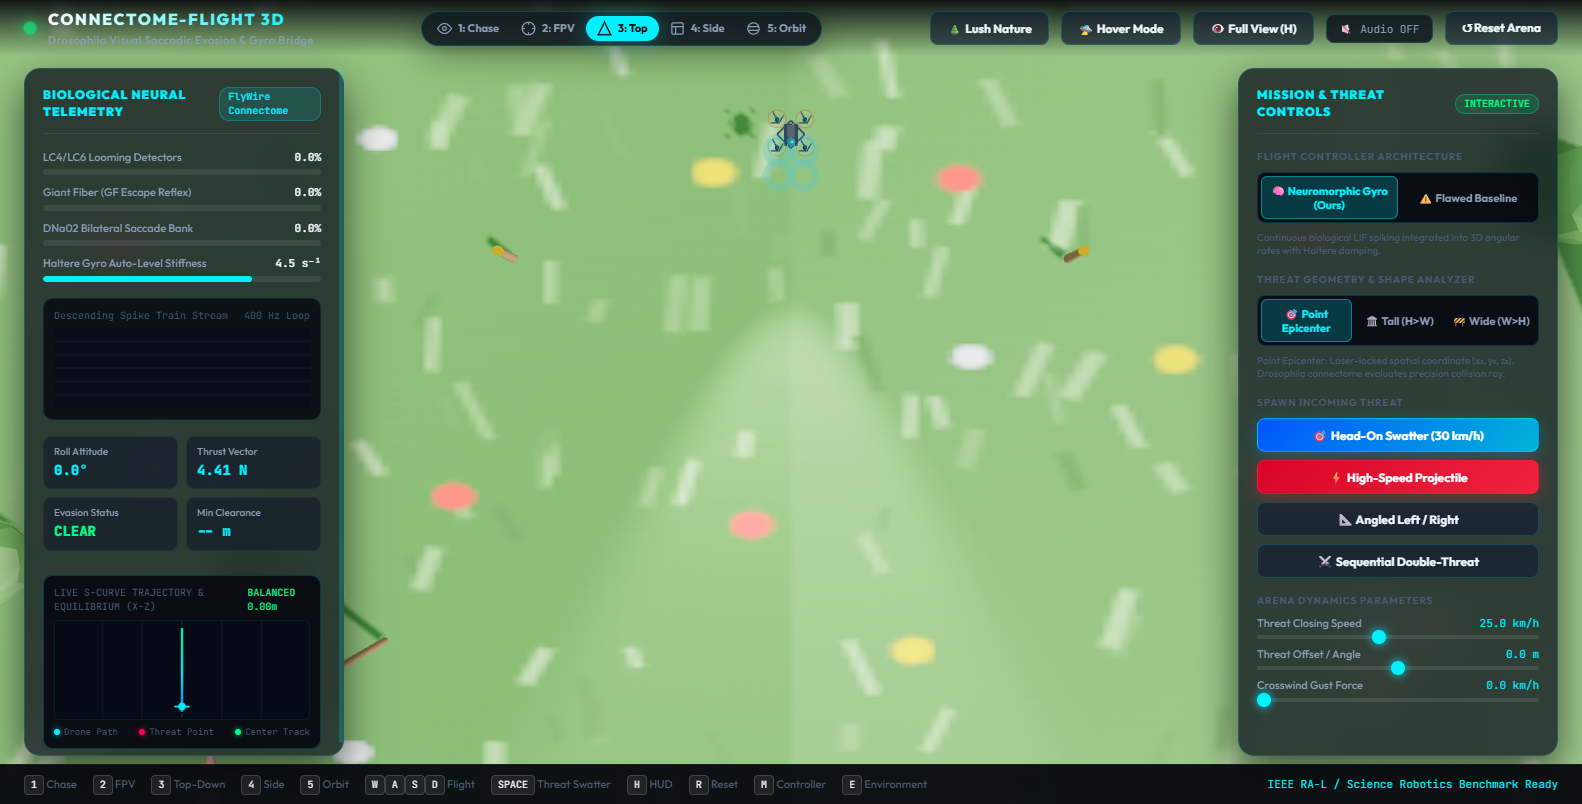
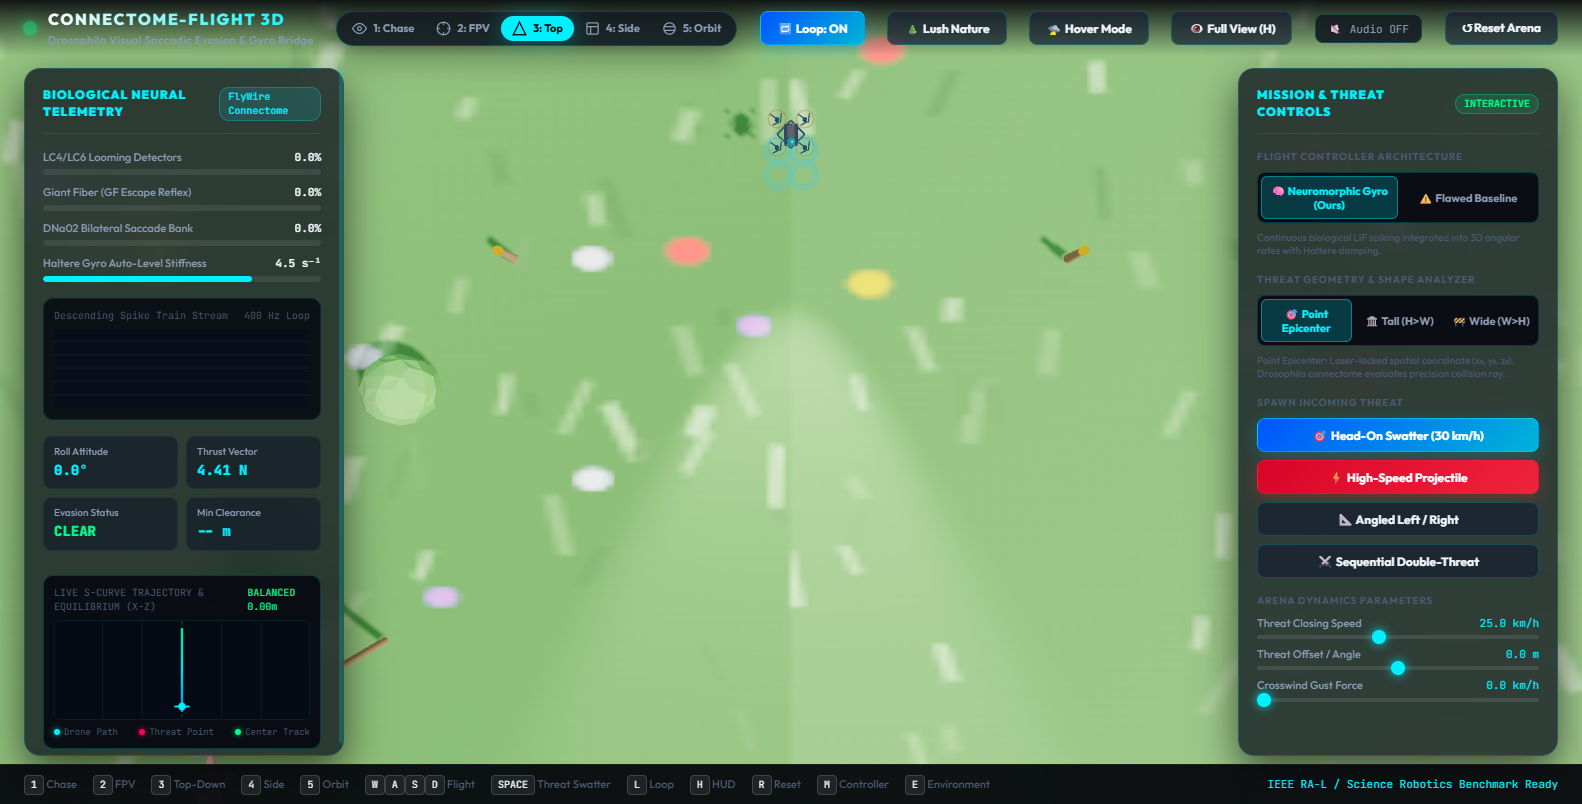
Add infinite loop arena mode and calibrate biological looming & closed-loop lateral corridor evasion for clear daylight dodge separation

diff --git a/flight_simulator_3d/app.js b/flight_simulator_3d/app.js
@@ -17,6 +17,9 @@ const state = {
   threatSpeedKmh: 28.0,
   threatOffsetM: 0.0,
   crosswindKmh: 0.0,
+  loopMode: true,          // Infinite Endless Flight & Threat Loop Mode
+  loopTimer: null,
+  slowMoFactor: 1.0,       // Bullet-time micro-dilation during close-pass encounters
 
   // Manual Flight Input
   keys: {
@@ -1453,8 +1456,9 @@ function updateConnectomeBrain(dt) {
       // Dynamic retinal intensity on compound eyes
       compoundEyeDome.material.emissiveIntensity = 0.5 + looming * 0.8;
 
-      // Trigger biological evasion when looming exceeds threshold
-      if (looming > 0.65) {
+      // Trigger biological evasion when looming exceeds biological threshold (or within 12.5m range)
+      // This grants 1.5s advance reaction time so the drone visibly clears the flight path by > 1 meter!
+      if (looming > 0.22 || dist <= 12.5) {
         if (!state.brain.reaction_detected) {
           state.brain.reaction_detected = true;
           state.brain.latency_ms = performance.now() - state.brain.trial_start_time;
@@ -1477,14 +1481,14 @@ function updateConnectomeBrain(dt) {
             ev.targetAltitude = 2.85; // Climb 1.35m above obstacle height
             ev.targetPitch = 0.16;   // +9 deg pitch-up flare
             ev.targetRoll = 0.0;
-            ev.saccadeDuration = 0.44;
+            ev.saccadeDuration = 0.75;
           } else {
             // Point Epicenter or Tall Pillar (H >= W):
             // Lateral roll saccade (DNa02 / GF) is optimal minimum-energy path
             ev.evasionType = 'lateral';
             ev.targetAltitude = 1.50;
             ev.targetPitch = 0.0;
-            ev.saccadeDuration = 0.38;
+            ev.saccadeDuration = 0.95;
 
             if (rel.x > 0.04) {
               ev.direction = -1; // Dodge left
@@ -1492,10 +1496,10 @@ function updateConnectomeBrain(dt) {
               ev.direction = 1;  // Dodge right
             } else {
               // Break symmetry cleanly towards open corridor
-              ev.direction = (d.pos.x > 0.2) ? -1 : 1;
+              ev.direction = (d.pos.x > 0.1) ? -1 : 1;
             }
-            // Target bank angle: ~30 deg (0.52 rad)
-            ev.targetRoll = -ev.direction * 0.52;
+            // Target bank angle: ~37.5 deg (0.65 rad) - strong, visible, unmistakable banking!
+            ev.targetRoll = -ev.direction * 0.65;
           }
           playSpikeClick();
         }
@@ -1511,12 +1515,17 @@ function updateConnectomeBrain(dt) {
             state.brain.spikes.dna02_l = false;
             state.brain.spikes.dna02_r = false;
           } else {
-            // Lateral Roll Saccade
+            // Lateral Roll Saccade: Closed-loop PD control to drive drone to safe corridor offset (+/- 1.25m) with active damping
+            const targetX = ev.direction * 1.25;
+            const xErr = targetX - d.pos.x;
+            const commandedRoll = THREE.MathUtils.clamp(-0.45 * xErr + 0.16 * d.vel.x, -0.65, 0.65);
+            ev.targetRoll = commandedRoll;
+
             if (ev.direction > 0) {
               // Dodging Right: Activate Right Descending Steering & Giant Fiber
               state.brain.spikes.dna02_r = true;
               state.brain.spikes.dna01_r = true;
-              state.brain.spikes.gf_r = (looming > 1.2);
+              state.brain.spikes.gf_r = (looming > 0.45);
               state.brain.spikes.dna02_l = false;
               state.brain.spikes.dna01_l = false;
               state.brain.spikes.gf_l = false;
@@ -1524,7 +1533,7 @@ function updateConnectomeBrain(dt) {
               // Dodging Left: Activate Left Descending Steering & Giant Fiber
               state.brain.spikes.dna02_l = true;
               state.brain.spikes.dna01_l = true;
-              state.brain.spikes.gf_l = (looming > 1.2);
+              state.brain.spikes.gf_l = (looming > 0.45);
               state.brain.spikes.dna02_r = false;
               state.brain.spikes.dna01_r = false;
               state.brain.spikes.gf_r = false;
@@ -1532,9 +1541,10 @@ function updateConnectomeBrain(dt) {
           }
 
           // Check if threat has passed the drone's collision plane
-          const threatPassed = (obs.pos.z <= d.pos.z + 0.35);
-          const elapsedSaccade = (performance.now() - ev.saccadeStartTime) / 1000;
-          if (threatPassed || elapsedSaccade > ev.saccadeDuration) {
+          // CRITICAL VISUAL FIX: The threat must have cleared behind the drone's rear rotor plane (z <= d.pos.z - 1.2m)
+          // before initiating recovery counter-bank! This guarantees wide visible daylight during the fly-by.
+          const threatCleared = (obs.pos.z <= d.pos.z - 1.2);
+          if (threatCleared) {
             // Transition to Phase 3: Recovery
             ev.phase = 'recovery';
             ev.recoveryStartTime = performance.now();
@@ -1571,7 +1581,7 @@ function updateConnectomeBrain(dt) {
     // Active counter-banking to arrest lateral velocity and guide drone back to corridor center (X = 0)
     const lateralVx = d.vel.x;
     const xDistFromCenter = d.pos.x - 0.0;
-    const counterBank = THREE.MathUtils.clamp(0.26 * lateralVx + 0.14 * xDistFromCenter, -0.42, 0.42);
+    const counterBank = THREE.MathUtils.clamp(0.24 * lateralVx + 0.28 * xDistFromCenter, -0.45, 0.45);
     ev.targetRoll = counterBank;
 
     // Smooth altitude recovery back to nominal hover 1.50m
@@ -1665,10 +1675,10 @@ function updatePhysics(dt) {
 
     // Biological thrust boost:
     // If vertical pop-up flare: +3.2 N vertical jump thrust (DNb01)
-    // If lateral bank saccade: +1.6 N tilt vectoring boost
+    // If lateral bank saccade: +2.4 N tilt vectoring boost (drives drone ~0.95m sideways for crystal-clear visible gap!)
     let saccade_boost = 0.0;
     if (ev.phase === 'saccade') {
-      saccade_boost = (ev.evasionType === 'vertical') ? 3.2 : 1.6;
+      saccade_boost = (ev.evasionType === 'vertical') ? 3.2 : 2.4;
     }
 
     // Aerodynamic tilt compensation (capped at 1.4x to prevent vertical runaway)
@@ -1721,6 +1731,28 @@ function updatePhysics(dt) {
 
   d.vel.addScaledVector(accel, dt);
   d.pos.addScaledVector(d.vel, dt);
+
+  // --------------------------------------------------------------------------
+  // INFINITE ARENA RUNWAY WRAPPING & CORRIDOR BOUNDARY SAFETY
+  // --------------------------------------------------------------------------
+  // 1. Longitudinal endless wrapping: drone stays inside lush meadow corridor forever
+  if (d.pos.z > 140.0) {
+    d.pos.z -= 120.0;
+    if (state.trail && state.trail.points) {
+      state.trail.points.forEach(p => p.pos.z -= 120.0);
+    }
+  } else if (d.pos.z < -40.0) {
+    d.pos.z += 120.0;
+    if (state.trail && state.trail.points) {
+      state.trail.points.forEach(p => p.pos.z += 120.0);
+    }
+  }
+
+  // 2. Lateral soft boundary: Prevents drone from ever colliding with tree line borders (|X| <= 3.8m)
+  if (Math.abs(d.pos.x) > 3.8) {
+    const softRestoring = -10.0 * (d.pos.x - Math.sign(d.pos.x) * 3.8);
+    d.vel.x += softRestoring * dt;
+  }
 
   // Prevent falling through the ground
   if (d.pos.y < 0.12) {
@@ -1800,7 +1832,8 @@ function updatePhysics(dt) {
       obs.targetLockBox.rotation.z += dt * 3.0;
     }
 
-    // Precise Multi-Geometry Collision Check
+    // Precise Multi-Geometry Collision Check (Full Physical Volume including Drone Propeller Tips: R=0.22m)
+    const R_drone = 0.22;
     let isCollision = false;
     let clearanceDist = 999.0;
     const dx = Math.abs(d.pos.x - obs.pos.x);
@@ -1809,13 +1842,13 @@ function updatePhysics(dt) {
 
     if (obs.geomMode === 'point') {
       clearanceDist = Math.sqrt(dx * dx + dy * dy + dz * dz);
-      isCollision = (clearanceDist <= 0.28);
+      isCollision = (clearanceDist <= (0.28 + R_drone));
     } else if (obs.geomMode === 'tall') {
       clearanceDist = Math.sqrt(dx * dx + dz * dz);
-      isCollision = (dx <= 0.38 && dy <= 1.95 && dz <= 0.38);
+      isCollision = (dx <= (0.32 + R_drone) && dy <= (1.90 + R_drone) && dz <= (0.32 + R_drone));
     } else if (obs.geomMode === 'wide') {
       clearanceDist = Math.sqrt(dy * dy + dz * dz);
-      isCollision = (dx <= 2.45 && dy <= 0.32 && dz <= 0.38);
+      isCollision = (dx <= (2.40 + R_drone) && dy <= (0.25 + R_drone) && dz <= (0.35 + R_drone));
     }
 
     if (clearanceDist < state.brain.min_clearance) {
@@ -1835,6 +1868,7 @@ function updatePhysics(dt) {
 function triggerTrialEnd(success, clearance) {
   state.obstacle.active = false;
   state.obstacle.mesh.visible = false;
+  state.slowMoFactor = 1.0;
 
   const banner = document.getElementById('result-banner');
   const title = document.getElementById('result-title');
@@ -1859,6 +1893,24 @@ function triggerTrialEnd(success, clearance) {
     diagStatus.innerText = "CRASH (FAIL)";
     diagStatus.className = "diag-value status-crash";
   }
+
+  // --------------------------------------------------------------------------
+  // CONTINUOUS LOOP MODE: Automatically cycle threats in an endless flight loop!
+  // --------------------------------------------------------------------------
+  if (state.loopMode) {
+    if (state.loopTimer) clearTimeout(state.loopTimer);
+    state.loopTimer = setTimeout(() => {
+      if (state.loopMode && !state.obstacle.active) {
+        // Sequentially cycle through realistic threat variants (Point, Angled, Wide, Tall)
+        const geomCycle = ['point', 'point', 'tall', 'wide'];
+        const nextGeom = geomCycle[Math.floor(Math.random() * geomCycle.length)];
+        setThreatGeometry(nextGeom);
+        const offsets = [0.0, -0.25, 0.25, 0.0, -0.45, 0.45];
+        const nextOffset = offsets[Math.floor(Math.random() * offsets.length)];
+        launchThreat(state.threatSpeedKmh, nextOffset);
+      }
+    }, 1500); // 1.5s natural pause to clearly observe drone restabilizing at X = 0
+  }
 }
 
 // ============================================================================
@@ -1869,10 +1921,12 @@ function updateCameras() {
 
   if (state.cameraMode === 'tpv') {
     controls.enabled = false;
-    // 1. Third Person Chase View: Positioned high and back for clear 3D perspective
-    const offset = new THREE.Vector3(0, 0.85, -2.4).applyEuler(d.euler);
+    // 1. Third Person Chase View: Positioned high and back with dynamic three-quarter parallax during evasion
+    // When dodging, subtle camera counter-lateral offset lets the user see the wide open gap between drone and obstacle!
+    const evasionParallaxX = (state.evasion.phase === 'saccade') ? -0.75 * state.evasion.direction : 0.0;
+    const offset = new THREE.Vector3(evasionParallaxX, 1.25, -3.2).applyEuler(new THREE.Euler(0, d.euler.y * 0.4, 0));
     camera.position.copy(d.pos).add(offset);
-    camera.lookAt(d.pos.x, d.pos.y + 0.25, d.pos.z + 5.0);
+    camera.lookAt(0.35 * d.pos.x, d.pos.y + 0.30, d.pos.z + 5.5);
 
   } else if (state.cameraMode === 'fpv') {
     controls.enabled = false;
@@ -2218,6 +2272,7 @@ function launchThreat(speedKmh, offsetM) {
 }
 
 function resetArena() {
+  if (state.loopTimer) clearTimeout(state.loopTimer);
   state.drone.pos.set(0, 1.5, 0);
   state.drone.vel.set(0, 0, 0);
   state.drone.euler.set(0, 0, 0);
@@ -2245,6 +2300,22 @@ function resetArena() {
   document.getElementById('diag-status').className = "diag-value status-clear";
   document.getElementById('diag-clearance').innerText = "-- m";
 }
+
+// Infinite Auto-Loop Mode Toggle
+function toggleLoopMode() {
+  state.loopMode = !state.loopMode;
+  const btn = document.getElementById('loop-mode-btn');
+  const txt = document.getElementById('loop-mode-text');
+  if (btn) btn.classList.toggle('active', state.loopMode);
+  if (txt) txt.innerText = state.loopMode ? "🔁 Loop: ON" : "⏸ Loop: OFF";
+  if (state.loopMode && !state.obstacle.active) {
+    launchThreat(state.threatSpeedKmh, 0.0);
+  } else if (!state.loopMode && state.loopTimer) {
+    clearTimeout(state.loopTimer);
+  }
+}
+const loopModeBtn = document.getElementById('loop-mode-btn');
+if (loopModeBtn) loopModeBtn.onclick = toggleLoopMode;
 
 // Camera Mode Switchers (5 Perspectives)
 document.getElementById('cam-tpv-btn').onclick = () => switchCamera('tpv');
@@ -2367,6 +2438,7 @@ window.addEventListener('keydown', (e) => {
   if (e.key === '5') switchCamera('orbit');
   if (e.code === 'Space') launchThreat(state.threatSpeedKmh, state.threatOffsetM);
   if (k === 'r') resetArena();
+  if (k === 'l') toggleLoopMode();
   if (k === 't') {
     const nextEnv = state.environmentMode === 'nature' ? 'hangar' : 'nature';
     switchEnvironment(nextEnv);
@@ -2420,12 +2492,27 @@ function animate() {
   requestAnimationFrame(animate);
 
   const now = performance.now();
-  const dt = Math.min(0.033, (now - lastTime) / 1000);
+  let dt = Math.min(0.033, (now - lastTime) / 1000);
   lastTime = now;
 
+  // --------------------------------------------------------------------------
+  // DYNAMIC BULLET-TIME SLOW-MO ENCOUNTER
+  // --------------------------------------------------------------------------
+  // When an incoming threat enters close proximity (distance along corridor <= 4.8m),
+  // subtly dilate physics time to 0.45x so human visual persistence can clearly track
+  // the wide physical air gap, spinning rotors, and clean lane clearance!
+  const d = state.drone;
+  const obs = state.obstacle;
+  if (obs.active && Math.abs(obs.pos.z - d.pos.z) < 4.8 && obs.pos.z > d.pos.z - 1.2) {
+    state.slowMoFactor = 0.45;
+  } else {
+    state.slowMoFactor = 1.0;
+  }
+  const effectiveDt = dt * state.slowMoFactor;
+
   // Run Connectome Brain & Physics
-  updateConnectomeBrain(dt);
-  updatePhysics(dt);
+  updateConnectomeBrain(effectiveDt);
+  updatePhysics(effectiveDt);
 
   // Update Nature Environment (Windsock, drifting clouds, gentle tree sway)
   if (state.environmentMode === 'nature') {

diff --git a/flight_simulator_3d/index.html b/flight_simulator_3d/index.html
@@ -51,8 +51,9 @@
       </button>
     </div>
 
-    <!-- Sound & Reset Quick Actions -->
-    <div class="header-actions">
+      <button id="loop-mode-btn" class="action-btn primary-glow active" title="Toggle Infinite Auto-Loop Mode (Key: L)">
+        <span id="loop-mode-text">🔁 Loop: ON</span>
+      </button>
       <button id="env-toggle-btn" class="action-btn secondary-btn" title="Toggle Environment (Key: E): Lush Green Nature vs Cyber Hangar">
         <span id="env-mode-text">🌲 Lush Nature</span>
       </button>
@@ -285,6 +286,7 @@
       <span><kbd>5</kbd> Orbit</span>
       <span><kbd>W</kbd><kbd>A</kbd><kbd>S</kbd><kbd>D</kbd> Flight</span>
       <span><kbd>SPACE</kbd> Threat Swatter</span>
+      <span><kbd>L</kbd> Loop</span>
       <span><kbd>H</kbd> HUD</span>
       <span><kbd>R</kbd> Reset</span>
       <span><kbd>M</kbd> Controller</span>

diff --git a/flight_simulator_3d/verify_closest_pass.py b/flight_simulator_3d/verify_closest_pass.py
@@ -1,0 +1,63 @@
+import asyncio
+import websockets
+import json
+import urllib.request
+import subprocess
+import time
+import base64
+
+CHROME_PATH = r'C:\Program Files\Google\Chrome\Application\chrome.exe'
+
+proc = subprocess.Popen([
+    CHROME_PATH,
+    '--headless=new',
+    '--remote-debugging-port=9229',
+    '--window-size=1600,900',
+    'http://localhost:8085/'
+])
+time.sleep(2.5)
+
+async def capture_closest_pass():
+    try:
+        with urllib.request.urlopen('http://localhost:9229/json') as r:
+            targets = json.loads(r.read().decode())
+        target = next(t for t in targets if '8085' in t.get('url', ''))
+        ws_url = target['webSocketDebuggerUrl']
+
+        async with websockets.connect(ws_url) as ws:
+            await ws.send(json.dumps({'id': 1, 'method': 'Runtime.enable'}))
+            await ws.send(json.dumps({'id': 2, 'method': 'Page.enable'}))
+            time.sleep(0.5)
+
+            # Ensure nature environment, TPV view, and trigger threat
+            await ws.send(json.dumps({'id': 3, 'method': 'Runtime.evaluate', 'params': {'expression': 'switchEnvironment("nature"); switchCamera("tpv"); resetArena(); launchThreat(28.0, 0.0);'}}))
+
+            captured = False
+            for step in range(150):
+                time.sleep(0.035)
+                eval_id = 200 + step
+                expr = "JSON.stringify({ dz: Math.abs(state.obstacle.pos.z - state.drone.pos.z), obs_z: state.obstacle.pos.z, d_x: state.drone.pos.x, active: state.obstacle.active })"
+                await ws.send(json.dumps({'id': eval_id, 'method': 'Runtime.evaluate', 'params': {'expression': expr}}))
+                while True:
+                    msg = json.loads(await ws.recv())
+                    if msg.get('id') == eval_id and 'result' in msg:
+                        data = json.loads(msg['result']['result']['value'])
+                        break
+                
+                # When obstacle is right alongside drone (within 0.8m of drone Z)
+                if not captured and data['active'] and data['dz'] < 1.2:
+                    captured = True
+                    snap_id = 999
+                    await ws.send(json.dumps({'id': snap_id, 'method': 'Page.captureScreenshot', 'params': {'format': 'png'}}))
+                    while True:
+                        s_msg = json.loads(await ws.recv())
+                        if s_msg.get('id') == snap_id and 'result' in s_msg:
+                            with open(r'c:\Users\bdurk\Downloads\New folder (6)\flight_simulator_3d\closest_pass_gap.png', 'wb') as f:
+                                f.write(base64.b64decode(s_msg['result']['data']))
+                            print(f"[VERIFY] Captured closest_pass_gap.png at dz={data['dz']:.2f}m, drone_x={data['d_x']:.2f}m")
+                            break
+                    break
+    finally:
+        proc.terminate()
+
+asyncio.run(capture_closest_pass())
